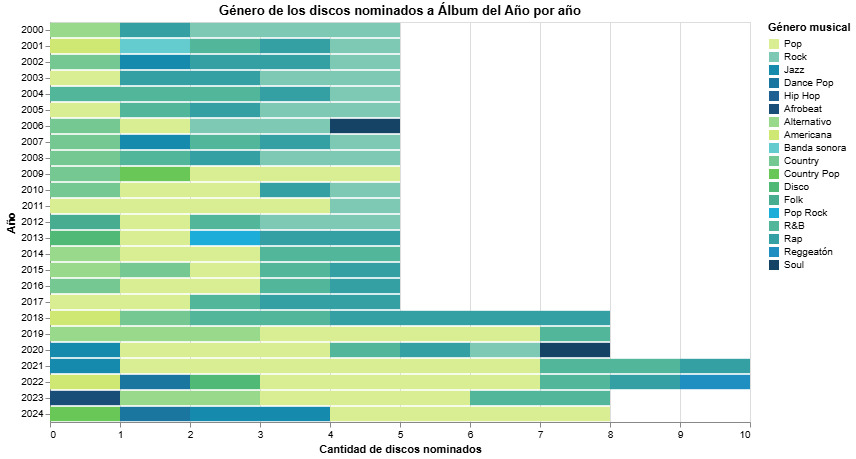
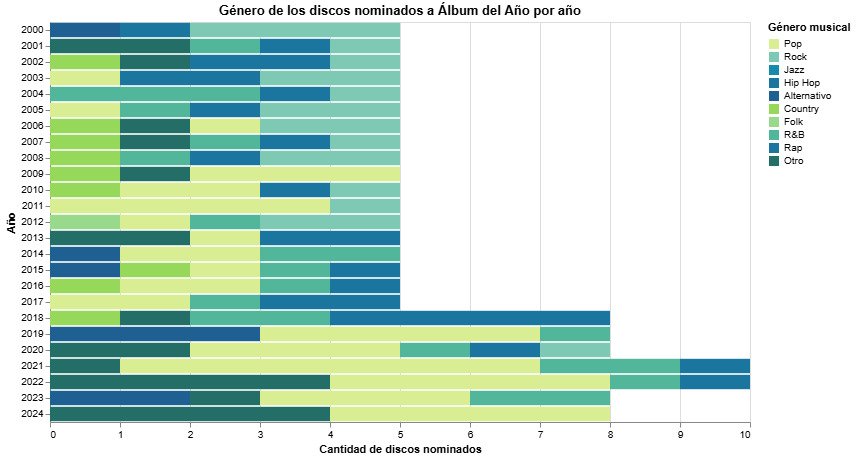
Updates entrega

diff --git a/Entrega_03/Kalebota_Visualización_Álbum_del_Año/Visualización/Visualización_Álbum_del_Año.html b/Entrega_03/Kalebota_Visualización_Álbum_del_Año/Visualización/Visualización_Álbum_del_Año.html
@@ -21,7 +21,7 @@
   <div id="vis"></div>
   <script>
     (function(vegaEmbed) {
-      var spec = {"config": {"view": {"continuousWidth": 300, "continuousHeight": 300}}, "data": {"name": "data-6c9eeb04faea6c406cc021e66cefa76d"}, "mark": {"type": "bar"}, "encoding": {"color": {"field": "G\u00e9nero disco", "scale": {"domain": ["Pop", "Rock", "Jazz", "Dance Pop", "Hip Hop", "Afrobeat", "Alternativo", "Americana", "Banda sonora", "Country", "Country Pop", "Disco", "Folk", "Pop Rock", "R&B", "Rap", "Reggeat\u00f3n", "Soul"], "range": ["#D9ED92", "#7EC9B4", "#168AAD", "#1A759F", "#1E6091", "#184E77", "#99D98C", "#CFE873", "#64CBCE", "#76C893", "#69C757", "#50B975", "#48AD90", "#1CADD9", "#52B69A", "#34A0A4", "#1F8EC1", "#154366"]}, "title": "G\u00e9nero musical", "type": "nominal"}, "tooltip": [{"field": "A\u00f1o", "type": "quantitative"}, {"field": "G\u00e9nero disco", "type": "nominal"}, {"field": "Cantidad", "type": "quantitative"}], "x": {"axis": {"format": "d", "tickMinStep": 1}, "field": "Cantidad", "title": "Cantidad de discos nominados", "type": "quantitative"}, "y": {"field": "A\u00f1o", "title": "A\u00f1o", "type": "ordinal"}}, "height": 400, "title": "G\u00e9nero de los discos nominados a \u00c1lbum del A\u00f1o por a\u00f1o", "width": 700, "$schema": "https://vega.github.io/schema/vega-lite/v5.20.1.json", "datasets": {"data-6c9eeb04faea6c406cc021e66cefa76d": [{"A\u00f1o": 2000, "G\u00e9nero disco": "Alternativo", "Cantidad": 1}, {"A\u00f1o": 2000, "G\u00e9nero disco": "Rap", "Cantidad": 1}, {"A\u00f1o": 2000, "G\u00e9nero disco": "Rock", "Cantidad": 3}, {"A\u00f1o": 2001, "G\u00e9nero disco": "Americana", "Cantidad": 1}, {"A\u00f1o": 2001, "G\u00e9nero disco": "Banda sonora", "Cantidad": 1}, {"A\u00f1o": 2001, "G\u00e9nero disco": "R&B", "Cantidad": 1}, {"A\u00f1o": 2001, "G\u00e9nero disco": "Rap", "Cantidad": 1}, {"A\u00f1o": 2001, "G\u00e9nero disco": "Rock", "Cantidad": 1}, {"A\u00f1o": 2002, "G\u00e9nero disco": "Country", "Cantidad": 1}, {"A\u00f1o": 2002, "G\u00e9nero disco": "Jazz", "Cantidad": 1}, {"A\u00f1o": 2002, "G\u00e9nero disco": "Rap", "Cantidad": 2}, {"A\u00f1o": 2002, "G\u00e9nero disco": "Rock", "Cantidad": 1}, {"A\u00f1o": 2003, "G\u00e9nero disco": "Pop", "Cantidad": 1}, {"A\u00f1o": 2003, "G\u00e9nero disco": "Rap", "Cantidad": 2}, {"A\u00f1o": 2003, "G\u00e9nero disco": "Rock", "Cantidad": 2}, {"A\u00f1o": 2004, "G\u00e9nero disco": "R&B", "Cantidad": 3}, {"A\u00f1o": 2004, "G\u00e9nero disco": "Rap", "Cantidad": 1}, {"A\u00f1o": 2004, "G\u00e9nero disco": "Rock", "Cantidad": 1}, {"A\u00f1o": 2005, "G\u00e9nero disco": "Pop", "Cantidad": 1}, {"A\u00f1o": 2005, "G\u00e9nero disco": "R&B", "Cantidad": 1}, {"A\u00f1o": 2005, "G\u00e9nero disco": "Rap", "Cantidad": 1}, {"A\u00f1o": 2005, "G\u00e9nero disco": "Rock", "Cantidad": 2}, {"A\u00f1o": 2006, "G\u00e9nero disco": "Country", "Cantidad": 1}, {"A\u00f1o": 2006, "G\u00e9nero disco": "Pop", "Cantidad": 1}, {"A\u00f1o": 2006, "G\u00e9nero disco": "Rock", "Cantidad": 2}, {"A\u00f1o": 2006, "G\u00e9nero disco": "Soul", "Cantidad": 1}, {"A\u00f1o": 2007, "G\u00e9nero disco": "Country", "Cantidad": 1}, {"A\u00f1o": 2007, "G\u00e9nero disco": "Jazz", "Cantidad": 1}, {"A\u00f1o": 2007, "G\u00e9nero disco": "R&B", "Cantidad": 1}, {"A\u00f1o": 2007, "G\u00e9nero disco": "Rap", "Cantidad": 1}, {"A\u00f1o": 2007, "G\u00e9nero disco": "Rock", "Cantidad": 1}, {"A\u00f1o": 2008, "G\u00e9nero disco": "Country", "Cantidad": 1}, {"A\u00f1o": 2008, "G\u00e9nero disco": "R&B", "Cantidad": 1}, {"A\u00f1o": 2008, "G\u00e9nero disco": "Rap", "Cantidad": 1}, {"A\u00f1o": 2008, "G\u00e9nero disco": "Rock", "Cantidad": 2}, {"A\u00f1o": 2009, "G\u00e9nero disco": "Country", "Cantidad": 1}, {"A\u00f1o": 2009, "G\u00e9nero disco": "Country Pop", "Cantidad": 1}, {"A\u00f1o": 2009, "G\u00e9nero disco": "Pop", "Cantidad": 3}, {"A\u00f1o": 2010, "G\u00e9nero disco": "Country", "Cantidad": 1}, {"A\u00f1o": 2010, "G\u00e9nero disco": "Pop", "Cantidad": 2}, {"A\u00f1o": 2010, "G\u00e9nero disco": "Rap", "Cantidad": 1}, {"A\u00f1o": 2010, "G\u00e9nero disco": "Rock", "Cantidad": 1}, {"A\u00f1o": 2011, "G\u00e9nero disco": "Pop", "Cantidad": 4}, {"A\u00f1o": 2011, "G\u00e9nero disco": "Rock", "Cantidad": 1}, {"A\u00f1o": 2012, "G\u00e9nero disco": "Folk", "Cantidad": 1}, {"A\u00f1o": 2012, "G\u00e9nero disco": "Pop", "Cantidad": 1}, {"A\u00f1o": 2012, "G\u00e9nero disco": "R&B", "Cantidad": 1}, {"A\u00f1o": 2012, "G\u00e9nero disco": "Rock", "Cantidad": 2}, {"A\u00f1o": 2013, "G\u00e9nero disco": "Disco", "Cantidad": 1}, {"A\u00f1o": 2013, "G\u00e9nero disco": "Pop", "Cantidad": 1}, {"A\u00f1o": 2013, "G\u00e9nero disco": "Pop Rock", "Cantidad": 1}, {"A\u00f1o": 2013, "G\u00e9nero disco": "Rap", "Cantidad": 2}, {"A\u00f1o": 2014, "G\u00e9nero disco": "Alternativo", "Cantidad": 1}, {"A\u00f1o": 2014, "G\u00e9nero disco": "Pop", "Cantidad": 2}, {"A\u00f1o": 2014, "G\u00e9nero disco": "R&B", "Cantidad": 2}, {"A\u00f1o": 2015, "G\u00e9nero disco": "Alternativo", "Cantidad": 1}, {"A\u00f1o": 2015, "G\u00e9nero disco": "Country", "Cantidad": 1}, {"A\u00f1o": 2015, "G\u00e9nero disco": "Pop", "Cantidad": 1}, {"A\u00f1o": 2015, "G\u00e9nero disco": "R&B", "Cantidad": 1}, {"A\u00f1o": 2015, "G\u00e9nero disco": "Rap", "Cantidad": 1}, {"A\u00f1o": 2016, "G\u00e9nero disco": "Country", "Cantidad": 1}, {"A\u00f1o": 2016, "G\u00e9nero disco": "Pop", "Cantidad": 2}, {"A\u00f1o": 2016, "G\u00e9nero disco": "R&B", "Cantidad": 1}, {"A\u00f1o": 2016, "G\u00e9nero disco": "Rap", "Cantidad": 1}, {"A\u00f1o": 2017, "G\u00e9nero disco": "Pop", "Cantidad": 2}, {"A\u00f1o": 2017, "G\u00e9nero disco": "R&B", "Cantidad": 1}, {"A\u00f1o": 2017, "G\u00e9nero disco": "Rap", "Cantidad": 2}, {"A\u00f1o": 2018, "G\u00e9nero disco": "Americana", "Cantidad": 1}, {"A\u00f1o": 2018, "G\u00e9nero disco": "Country", "Cantidad": 1}, {"A\u00f1o": 2018, "G\u00e9nero disco": "R&B", "Cantidad": 2}, {"A\u00f1o": 2018, "G\u00e9nero disco": "Rap", "Cantidad": 4}, {"A\u00f1o": 2019, "G\u00e9nero disco": "Alternativo", "Cantidad": 3}, {"A\u00f1o": 2019, "G\u00e9nero disco": "Pop", "Cantidad": 4}, {"A\u00f1o": 2019, "G\u00e9nero disco": "R&B", "Cantidad": 1}, {"A\u00f1o": 2020, "G\u00e9nero disco": "Jazz", "Cantidad": 1}, {"A\u00f1o": 2020, "G\u00e9nero disco": "Pop", "Cantidad": 3}, {"A\u00f1o": 2020, "G\u00e9nero disco": "R&B", "Cantidad": 1}, {"A\u00f1o": 2020, "G\u00e9nero disco": "Rap", "Cantidad": 1}, {"A\u00f1o": 2020, "G\u00e9nero disco": "Rock", "Cantidad": 1}, {"A\u00f1o": 2020, "G\u00e9nero disco": "Soul", "Cantidad": 1}, {"A\u00f1o": 2021, "G\u00e9nero disco": "Jazz", "Cantidad": 1}, {"A\u00f1o": 2021, "G\u00e9nero disco": "Pop", "Cantidad": 6}, {"A\u00f1o": 2021, "G\u00e9nero disco": "R&B", "Cantidad": 2}, {"A\u00f1o": 2021, "G\u00e9nero disco": "Rap", "Cantidad": 1}, {"A\u00f1o": 2022, "G\u00e9nero disco": "Americana", "Cantidad": 1}, {"A\u00f1o": 2022, "G\u00e9nero disco": "Dance Pop", "Cantidad": 1}, {"A\u00f1o": 2022, "G\u00e9nero disco": "Disco", "Cantidad": 1}, {"A\u00f1o": 2022, "G\u00e9nero disco": "Pop", "Cantidad": 4}, {"A\u00f1o": 2022, "G\u00e9nero disco": "R&B", "Cantidad": 1}, {"A\u00f1o": 2022, "G\u00e9nero disco": "Rap", "Cantidad": 1}, {"A\u00f1o": 2022, "G\u00e9nero disco": "Reggeat\u00f3n", "Cantidad": 1}, {"A\u00f1o": 2023, "G\u00e9nero disco": "Afrobeat", "Cantidad": 1}, {"A\u00f1o": 2023, "G\u00e9nero disco": "Alternativo", "Cantidad": 2}, {"A\u00f1o": 2023, "G\u00e9nero disco": "Pop", "Cantidad": 3}, {"A\u00f1o": 2023, "G\u00e9nero disco": "R&B", "Cantidad": 2}, {"A\u00f1o": 2024, "G\u00e9nero disco": "Country Pop", "Cantidad": 1}, {"A\u00f1o": 2024, "G\u00e9nero disco": "Dance Pop", "Cantidad": 1}, {"A\u00f1o": 2024, "G\u00e9nero disco": "Jazz", "Cantidad": 2}, {"A\u00f1o": 2024, "G\u00e9nero disco": "Pop", "Cantidad": 4}]}};
+      var spec = {"config": {"view": {"continuousWidth": 300, "continuousHeight": 300}}, "data": {"name": "data-6c0f73fff2e3087614c3aea725020fae"}, "mark": {"type": "bar"}, "encoding": {"color": {"field": "G\u00e9nero disco", "scale": {"domain": ["Pop", "Rock", "Jazz", "Hip Hop", "Alternativo", "Country", "Folk", "R&B", "Rap", "Otro"], "range": ["#D9ED92", "#7EC9B4", "#168AAD", "#1A759F", "#1E6091", "#95D85A", "#99D98C", "#52b69a", "#1a759f", "#236F67"]}, "title": "G\u00e9nero musical", "type": "nominal"}, "tooltip": [{"field": "A\u00f1o", "type": "quantitative"}, {"field": "G\u00e9nero disco", "type": "nominal"}, {"field": "Cantidad", "type": "quantitative"}], "x": {"axis": {"format": "d", "tickMinStep": 1}, "field": "Cantidad", "title": "Cantidad de discos nominados", "type": "quantitative"}, "y": {"field": "A\u00f1o", "title": "A\u00f1o", "type": "ordinal"}}, "height": 400, "title": "G\u00e9nero de los discos nominados a \u00c1lbum del A\u00f1o por a\u00f1o", "width": 700, "$schema": "https://vega.github.io/schema/vega-lite/v5.20.1.json", "datasets": {"data-6c0f73fff2e3087614c3aea725020fae": [{"A\u00f1o": 2000, "G\u00e9nero disco": "Alternativo", "Cantidad": 1}, {"A\u00f1o": 2000, "G\u00e9nero disco": "Rap", "Cantidad": 1}, {"A\u00f1o": 2000, "G\u00e9nero disco": "Rock", "Cantidad": 3}, {"A\u00f1o": 2001, "G\u00e9nero disco": "Otro", "Cantidad": 2}, {"A\u00f1o": 2001, "G\u00e9nero disco": "R&B", "Cantidad": 1}, {"A\u00f1o": 2001, "G\u00e9nero disco": "Rap", "Cantidad": 1}, {"A\u00f1o": 2001, "G\u00e9nero disco": "Rock", "Cantidad": 1}, {"A\u00f1o": 2002, "G\u00e9nero disco": "Country", "Cantidad": 1}, {"A\u00f1o": 2002, "G\u00e9nero disco": "Otro", "Cantidad": 1}, {"A\u00f1o": 2002, "G\u00e9nero disco": "Rap", "Cantidad": 2}, {"A\u00f1o": 2002, "G\u00e9nero disco": "Rock", "Cantidad": 1}, {"A\u00f1o": 2003, "G\u00e9nero disco": "Pop", "Cantidad": 1}, {"A\u00f1o": 2003, "G\u00e9nero disco": "Rap", "Cantidad": 2}, {"A\u00f1o": 2003, "G\u00e9nero disco": "Rock", "Cantidad": 2}, {"A\u00f1o": 2004, "G\u00e9nero disco": "R&B", "Cantidad": 3}, {"A\u00f1o": 2004, "G\u00e9nero disco": "Rap", "Cantidad": 1}, {"A\u00f1o": 2004, "G\u00e9nero disco": "Rock", "Cantidad": 1}, {"A\u00f1o": 2005, "G\u00e9nero disco": "Pop", "Cantidad": 1}, {"A\u00f1o": 2005, "G\u00e9nero disco": "R&B", "Cantidad": 1}, {"A\u00f1o": 2005, "G\u00e9nero disco": "Rap", "Cantidad": 1}, {"A\u00f1o": 2005, "G\u00e9nero disco": "Rock", "Cantidad": 2}, {"A\u00f1o": 2006, "G\u00e9nero disco": "Country", "Cantidad": 1}, {"A\u00f1o": 2006, "G\u00e9nero disco": "Otro", "Cantidad": 1}, {"A\u00f1o": 2006, "G\u00e9nero disco": "Pop", "Cantidad": 1}, {"A\u00f1o": 2006, "G\u00e9nero disco": "Rock", "Cantidad": 2}, {"A\u00f1o": 2007, "G\u00e9nero disco": "Country", "Cantidad": 1}, {"A\u00f1o": 2007, "G\u00e9nero disco": "Otro", "Cantidad": 1}, {"A\u00f1o": 2007, "G\u00e9nero disco": "R&B", "Cantidad": 1}, {"A\u00f1o": 2007, "G\u00e9nero disco": "Rap", "Cantidad": 1}, {"A\u00f1o": 2007, "G\u00e9nero disco": "Rock", "Cantidad": 1}, {"A\u00f1o": 2008, "G\u00e9nero disco": "Country", "Cantidad": 1}, {"A\u00f1o": 2008, "G\u00e9nero disco": "R&B", "Cantidad": 1}, {"A\u00f1o": 2008, "G\u00e9nero disco": "Rap", "Cantidad": 1}, {"A\u00f1o": 2008, "G\u00e9nero disco": "Rock", "Cantidad": 2}, {"A\u00f1o": 2009, "G\u00e9nero disco": "Country", "Cantidad": 1}, {"A\u00f1o": 2009, "G\u00e9nero disco": "Otro", "Cantidad": 1}, {"A\u00f1o": 2009, "G\u00e9nero disco": "Pop", "Cantidad": 3}, {"A\u00f1o": 2010, "G\u00e9nero disco": "Country", "Cantidad": 1}, {"A\u00f1o": 2010, "G\u00e9nero disco": "Pop", "Cantidad": 2}, {"A\u00f1o": 2010, "G\u00e9nero disco": "Rap", "Cantidad": 1}, {"A\u00f1o": 2010, "G\u00e9nero disco": "Rock", "Cantidad": 1}, {"A\u00f1o": 2011, "G\u00e9nero disco": "Pop", "Cantidad": 4}, {"A\u00f1o": 2011, "G\u00e9nero disco": "Rock", "Cantidad": 1}, {"A\u00f1o": 2012, "G\u00e9nero disco": "Folk", "Cantidad": 1}, {"A\u00f1o": 2012, "G\u00e9nero disco": "Pop", "Cantidad": 1}, {"A\u00f1o": 2012, "G\u00e9nero disco": "R&B", "Cantidad": 1}, {"A\u00f1o": 2012, "G\u00e9nero disco": "Rock", "Cantidad": 2}, {"A\u00f1o": 2013, "G\u00e9nero disco": "Otro", "Cantidad": 2}, {"A\u00f1o": 2013, "G\u00e9nero disco": "Pop", "Cantidad": 1}, {"A\u00f1o": 2013, "G\u00e9nero disco": "Rap", "Cantidad": 2}, {"A\u00f1o": 2014, "G\u00e9nero disco": "Alternativo", "Cantidad": 1}, {"A\u00f1o": 2014, "G\u00e9nero disco": "Pop", "Cantidad": 2}, {"A\u00f1o": 2014, "G\u00e9nero disco": "R&B", "Cantidad": 2}, {"A\u00f1o": 2015, "G\u00e9nero disco": "Alternativo", "Cantidad": 1}, {"A\u00f1o": 2015, "G\u00e9nero disco": "Country", "Cantidad": 1}, {"A\u00f1o": 2015, "G\u00e9nero disco": "Pop", "Cantidad": 1}, {"A\u00f1o": 2015, "G\u00e9nero disco": "R&B", "Cantidad": 1}, {"A\u00f1o": 2015, "G\u00e9nero disco": "Rap", "Cantidad": 1}, {"A\u00f1o": 2016, "G\u00e9nero disco": "Country", "Cantidad": 1}, {"A\u00f1o": 2016, "G\u00e9nero disco": "Pop", "Cantidad": 2}, {"A\u00f1o": 2016, "G\u00e9nero disco": "R&B", "Cantidad": 1}, {"A\u00f1o": 2016, "G\u00e9nero disco": "Rap", "Cantidad": 1}, {"A\u00f1o": 2017, "G\u00e9nero disco": "Pop", "Cantidad": 2}, {"A\u00f1o": 2017, "G\u00e9nero disco": "R&B", "Cantidad": 1}, {"A\u00f1o": 2017, "G\u00e9nero disco": "Rap", "Cantidad": 2}, {"A\u00f1o": 2018, "G\u00e9nero disco": "Country", "Cantidad": 1}, {"A\u00f1o": 2018, "G\u00e9nero disco": "Otro", "Cantidad": 1}, {"A\u00f1o": 2018, "G\u00e9nero disco": "R&B", "Cantidad": 2}, {"A\u00f1o": 2018, "G\u00e9nero disco": "Rap", "Cantidad": 4}, {"A\u00f1o": 2019, "G\u00e9nero disco": "Alternativo", "Cantidad": 3}, {"A\u00f1o": 2019, "G\u00e9nero disco": "Pop", "Cantidad": 4}, {"A\u00f1o": 2019, "G\u00e9nero disco": "R&B", "Cantidad": 1}, {"A\u00f1o": 2020, "G\u00e9nero disco": "Otro", "Cantidad": 2}, {"A\u00f1o": 2020, "G\u00e9nero disco": "Pop", "Cantidad": 3}, {"A\u00f1o": 2020, "G\u00e9nero disco": "R&B", "Cantidad": 1}, {"A\u00f1o": 2020, "G\u00e9nero disco": "Rap", "Cantidad": 1}, {"A\u00f1o": 2020, "G\u00e9nero disco": "Rock", "Cantidad": 1}, {"A\u00f1o": 2021, "G\u00e9nero disco": "Otro", "Cantidad": 1}, {"A\u00f1o": 2021, "G\u00e9nero disco": "Pop", "Cantidad": 6}, {"A\u00f1o": 2021, "G\u00e9nero disco": "R&B", "Cantidad": 2}, {"A\u00f1o": 2021, "G\u00e9nero disco": "Rap", "Cantidad": 1}, {"A\u00f1o": 2022, "G\u00e9nero disco": "Otro", "Cantidad": 4}, {"A\u00f1o": 2022, "G\u00e9nero disco": "Pop", "Cantidad": 4}, {"A\u00f1o": 2022, "G\u00e9nero disco": "R&B", "Cantidad": 1}, {"A\u00f1o": 2022, "G\u00e9nero disco": "Rap", "Cantidad": 1}, {"A\u00f1o": 2023, "G\u00e9nero disco": "Alternativo", "Cantidad": 2}, {"A\u00f1o": 2023, "G\u00e9nero disco": "Otro", "Cantidad": 1}, {"A\u00f1o": 2023, "G\u00e9nero disco": "Pop", "Cantidad": 3}, {"A\u00f1o": 2023, "G\u00e9nero disco": "R&B", "Cantidad": 2}, {"A\u00f1o": 2024, "G\u00e9nero disco": "Otro", "Cantidad": 4}, {"A\u00f1o": 2024, "G\u00e9nero disco": "Pop", "Cantidad": 4}]}};
       var embedOpt = {"mode": "vega-lite"};
 
       function showError(el, error){

diff --git a/Entrega_03/Kalebota_Visualización_Álbum_del_Año/README.md b/Entrega_03/Kalebota_Visualización_Álbum_del_Año/README.md
@@ -2,6 +2,7 @@
 
 1. Para comenzar el proceso de crear la visualización, subí la base de datos, ya limpia y ordenada, de la categoría de Álbum del Año a Google Colab. 
 1. Luego de subirla, cargué los datos y renombré algunas columnas que tenían caracteres borrados, ya que se reemplazaron las letras con tílde por un signo de interrogación. También tuve que cambiar un valor dentro de la columna de "Género disco", ya que en el género de Reggaetón también se había reemplazado la letra con tilde por un signo de interrogación. Todo esto por una cosa de estética más que nada, ya que no afecta los datos en sí. 
+1. Finalmente, para simplificar los datos, decidí crear una categoría de "Otro" para aquellos géneros que aparecen pocas veces en los datos, esto para simplificar la visualización.
 1. Luego, pensé que quería visualizar. En este caso, me interesaba visualizar la variación en los géneros de los discos nominados por año, ya que sabía que en la actualidad la mayoría de los nominados son Pop, y quería ver cuándo esto había empezado a ser así y si en años anteriores era otro género el que dominaba o si era más parejo.
 1. Para comenzar con la visualización, agrupé los datos por año y género musical, para que así se pudiera contar cuántos discos hay en cada combinación de año y género.
 1. Luego, con Altair armé un gráfico de barras horizontales, dónde en el eje X están la cantidad de discos nominados y en el eje Y están los años, yendo del 2000 al 2024. En cuanto a las barras, cada color representa un género musical.
